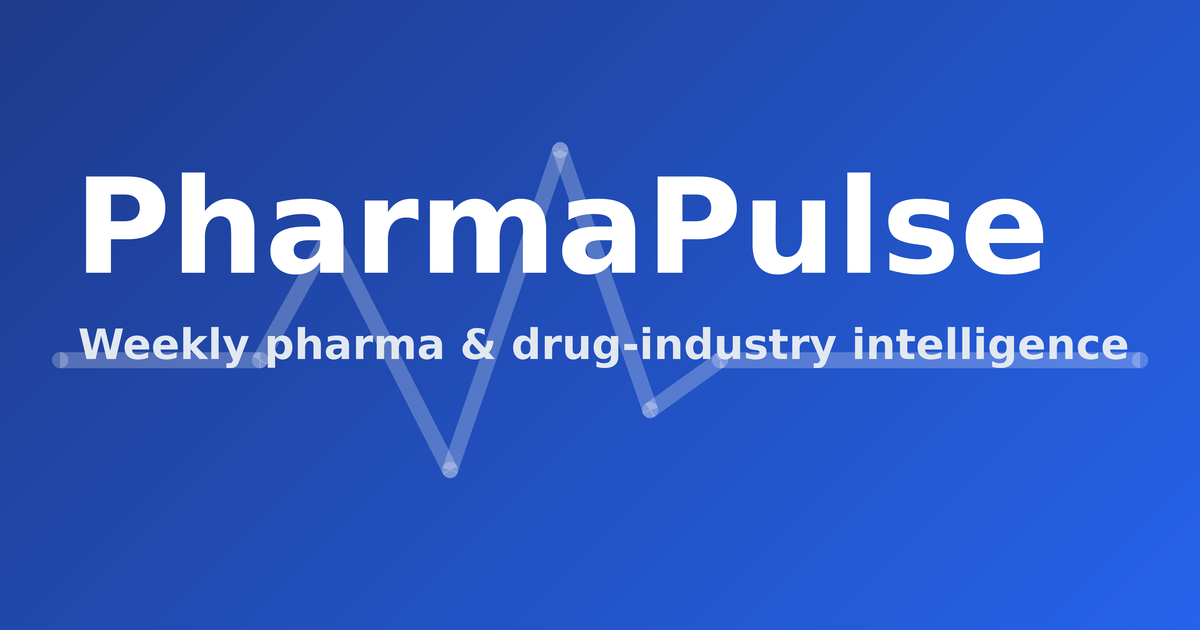
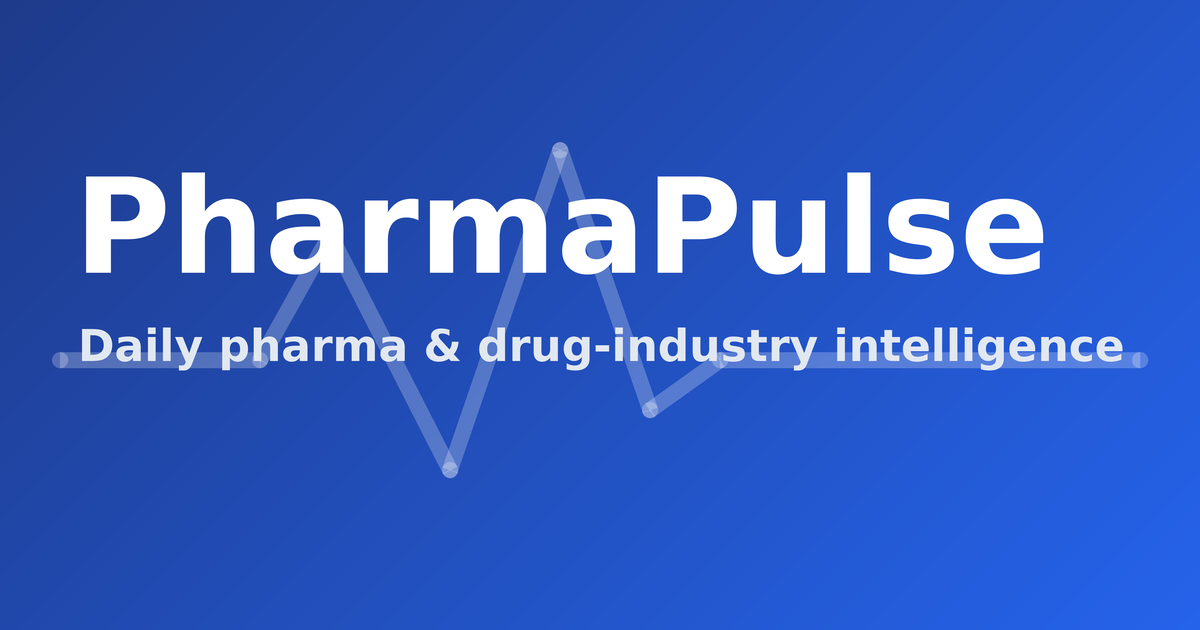
Update share branding from 'Weekly' to 'Daily'
- Social meta (title, og:title, description, twitter), manifest description,
  and the og-image share card all now say 'Daily'
- Regenerated docs/og-image.png; rebuilt page
- (Article body text mentioning 'a weekly snapshot' is real story content, kept)

https://claude.ai/code/session_01TDwXjtenxiMXkMaknrVcNm

Changed region(s): [[0.0617, 0.5127, 0.9558, 0.6032]]

diff --git a/docs/index.html b/docs/index.html
@@ -3,8 +3,8 @@
 <head>
 <meta charset="utf-8" />
 <meta name="viewport" content="width=device-width, initial-scale=1, viewport-fit=cover" />
-<title>PharmaPulse — Weekly Pharma &amp; Drug-Industry Intelligence</title>
-<meta name="description" content="Weekly pharma &amp; drug-industry intelligence — FDA approvals, Phase III readouts, biosimilars, CRLs, M&amp;A and more, each with an impact analysis." />
+<title>PharmaPulse — Daily Pharma &amp; Drug-Industry Intelligence</title>
+<meta name="description" content="Daily pharma &amp; drug-industry intelligence — FDA approvals, Phase III readouts, biosimilars, CRLs, M&amp;A and more, each with an impact analysis." />
 <meta name="theme-color" content="#1E3A8A" />
 <meta name="apple-mobile-web-app-capable" content="yes" />
 <meta name="apple-mobile-web-app-status-bar-style" content="black-translucent" />
@@ -15,13 +15,13 @@
 <link rel="manifest" href="manifest.webmanifest" />
 <!-- Social link previews -->
 <meta property="og:type" content="website" />
-<meta property="og:title" content="PharmaPulse — Weekly Pharma &amp; Drug-Industry Intelligence" />
-<meta property="og:description" content="Weekly pharma &amp; drug-industry intelligence — FDA approvals, Phase III readouts, biosimilars, CRLs, M&amp;A and more, each with an impact analysis." />
+<meta property="og:title" content="PharmaPulse — Daily Pharma &amp; Drug-Industry Intelligence" />
+<meta property="og:description" content="Daily pharma &amp; drug-industry intelligence — FDA approvals, Phase III readouts, biosimilars, CRLs, M&amp;A and more, each with an impact analysis." />
 <meta property="og:url" content="https://sharjeel45557.github.io/drug-app/" />
 <meta property="og:image" content="https://sharjeel45557.github.io/drug-app/og-image.png" />
 <meta name="twitter:card" content="summary_large_image" />
 <meta name="twitter:title" content="PharmaPulse" />
-<meta name="twitter:description" content="Weekly pharma &amp; drug-industry intelligence — FDA approvals, Phase III readouts, biosimilars, CRLs, M&amp;A and more, each with an impact analysis." />
+<meta name="twitter:description" content="Daily pharma &amp; drug-industry intelligence — FDA approvals, Phase III readouts, biosimilars, CRLs, M&amp;A and more, each with an impact analysis." />
 <meta name="twitter:image" content="https://sharjeel45557.github.io/drug-app/og-image.png" />
 <style>
   :root{

diff --git a/pipeline/build_web.py b/pipeline/build_web.py
@@ -21,7 +21,7 @@ SITE_URL = "https://sharjeel45557.github.io/drug-app/"
 REPO_URL = "https://github.com/sharjeel45557/drug-app"
 AUTHOR = "Sharjeel Ahmad"
 AUTHOR_URL = "https://linkedin.com/in/sharjeelahmad"
-DESCRIPTION = "Weekly pharma & drug-industry intelligence — FDA approvals, Phase III readouts, biosimilars, CRLs, M&A and more, each with an impact analysis."
+DESCRIPTION = "Daily pharma & drug-industry intelligence — FDA approvals, Phase III readouts, biosimilars, CRLs, M&A and more, each with an impact analysis."
 
 # catClass -> (solid hex, short label, SVG path)
 CATS = {
@@ -164,7 +164,7 @@ TEMPLATE = r"""<!doctype html>
 <head>
 <meta charset="utf-8" />
 <meta name="viewport" content="width=device-width, initial-scale=1, viewport-fit=cover" />
-<title>PharmaPulse — Weekly Pharma &amp; Drug-Industry Intelligence</title>
+<title>PharmaPulse — Daily Pharma &amp; Drug-Industry Intelligence</title>
 <meta name="description" content="__DESCRIPTION__" />
 <meta name="theme-color" content="#1E3A8A" />
 <meta name="apple-mobile-web-app-capable" content="yes" />
@@ -176,7 +176,7 @@ TEMPLATE = r"""<!doctype html>
 <link rel="manifest" href="manifest.webmanifest" />
 <!-- Social link previews -->
 <meta property="og:type" content="website" />
-<meta property="og:title" content="PharmaPulse — Weekly Pharma &amp; Drug-Industry Intelligence" />
+<meta property="og:title" content="PharmaPulse — Daily Pharma &amp; Drug-Industry Intelligence" />
 <meta property="og:description" content="__DESCRIPTION__" />
 <meta property="og:url" content="__SITE__" />
 <meta property="og:image" content="__SITE__og-image.png" />

diff --git a/pipeline/make_icon.py b/pipeline/make_icon.py
@@ -86,7 +86,7 @@ def fit_font(text, start_px):
 
 
 title = "PharmaPulse"
-subtitle = "Weekly pharma & drug-industry intelligence"
+subtitle = "Daily pharma & drug-industry intelligence"
 title_font = fit_font(title, 132 * SS)
 sub_font = fit_font(subtitle, 50 * SS)
 dc.text((margin, 150 * SS), title, font=title_font, fill=WHITE)